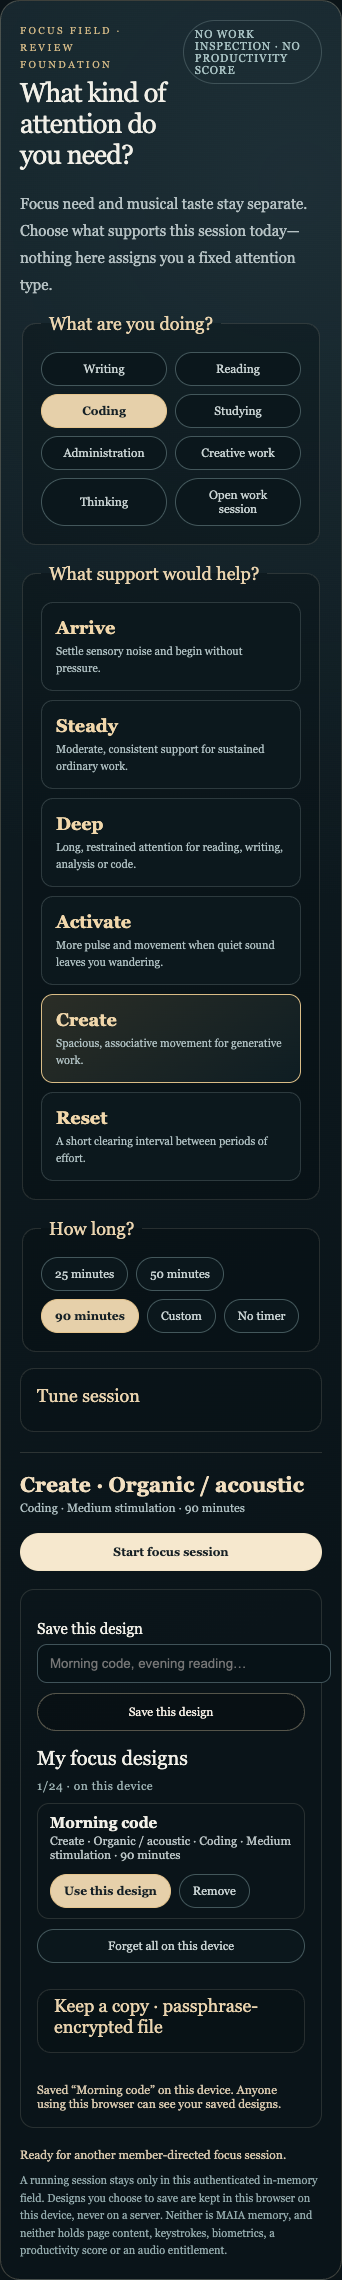
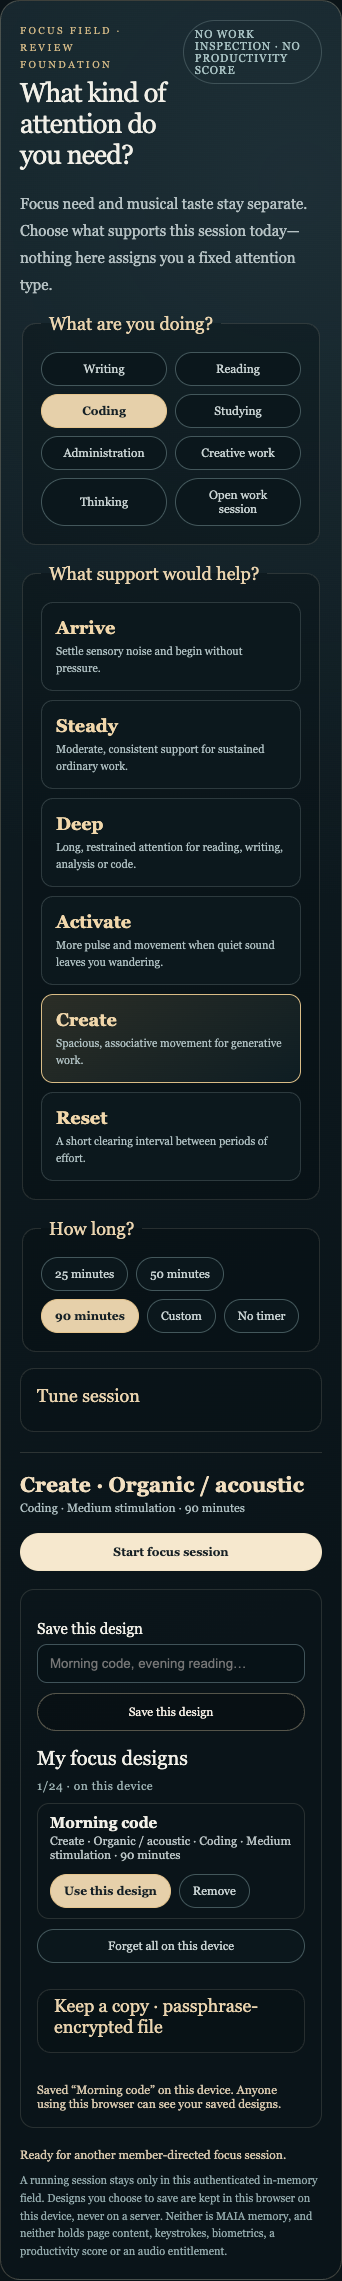
fix(listen): the mid-session save row spans the card; the Focus test page matches the real one
The row sat in the clock's narrow column and its button overlapped the name
(founder screenshot 2026-11-19, #1979). The Focus designs harness now also
shows Sound for this session, as the real Focus page does.

diff --git a/app/listen/listen.module.css b/app/listen/listen.module.css
@@ -231,7 +231,8 @@
 .focusDesigns{margin-top:18px;padding:16px;border:1px solid rgba(226,220,194,.14);border-radius:14px;display:grid;gap:10px}
 .focusDesigns h3{margin:6px 0 0;font-family:Georgia,serif;font-weight:400;font-size:20px;display:flex;justify-content:space-between;gap:10px;flex-wrap:wrap}
 .focusDesigns h3 span{font-family:inherit;font-size:12px;color:#9aafb0;letter-spacing:.04em}
-.focusDesignSave{display:grid;grid-template-columns:1fr auto;gap:10px;align-items:end}
+.focusDesignSave{display:grid;grid-template-columns:minmax(0,1fr) auto;gap:10px;align-items:end}
+.focusDesignSave label,.focusDesignSave input{min-width:0;width:100%;box-sizing:border-box}
 .focusDesignList{list-style:none;margin:0;padding:0;display:grid;gap:8px}
 .focusDesignList li{display:flex;justify-content:space-between;align-items:center;gap:12px;flex-wrap:wrap;padding:10px 12px;border:1px solid rgba(226,220,194,.14);border-radius:12px}
 .focusDesignList li div{display:grid;gap:3px}
@@ -243,3 +244,6 @@
 .focusSoundLevel{display:grid;grid-template-columns:auto 1fr auto;align-items:center;gap:12px;max-width:520px;font-size:13px;color:#d8cdb8}
 .focusSoundLevel input{width:100%;accent-color:#d4af37;min-height:32px}
 .focusSoundLevel output{font-variant-numeric:tabular-nums;color:#b9c3c4;min-width:3.5ch;text-align:right}
+
+/* In the running session the save row spans the whole card, not the clock's column. */
+.focusDesignDuring{grid-column:1/-1;max-width:720px;width:100%}

diff --git a/components/listening/FocusFieldDesk.tsx b/components/listening/FocusFieldDesk.tsx
@@ -485,7 +485,7 @@ export default function FocusFieldDesk() {
                   </select>
                 </label>
               </div>
-              <div className={styles.focusDesignSave} data-focus-design-during="true">
+              <div className={`${styles.focusDesignSave} ${styles.focusDesignDuring}`} data-focus-design-during="true">
                 <label className={styles.focusTextLabel} htmlFor="focus-design-name-during">
                   Save this design
                   <input id="focus-design-name-during" maxLength={60} value={designName}
@@ -497,7 +497,7 @@ export default function FocusFieldDesk() {
                     musicalWorld: session.plan.musicalWorld, stimulation: session.plan.stimulation,
                     duration: session.plan.duration }, true)}>Save this design</button>
               </div>
-              {designNote && <p className={styles.focusStatus} role="status" data-focus-design-note="true">{designNote}</p>}
+              {designNote && <p className={`${styles.focusStatus} ${styles.focusDesignDuring}`} role="status" data-focus-design-note="true">{designNote}</p>}
               <div className={styles.focusActions}>
                 <p className={styles.focusExplanation}>
                   Pause and Stop for this session are in the player below.
